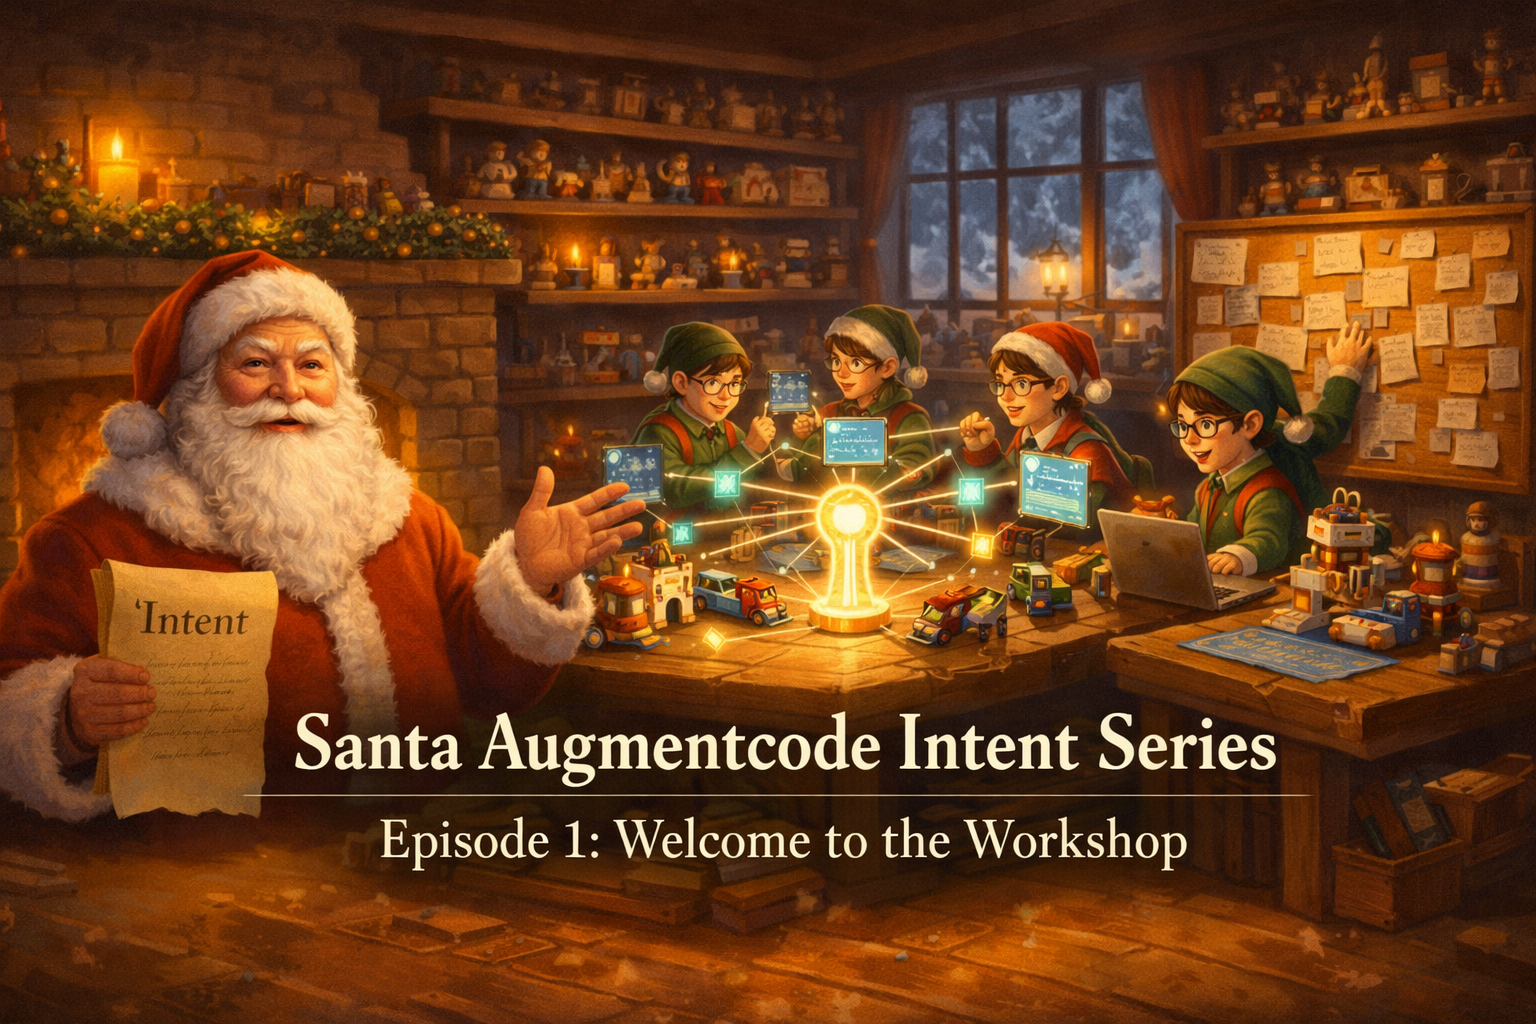
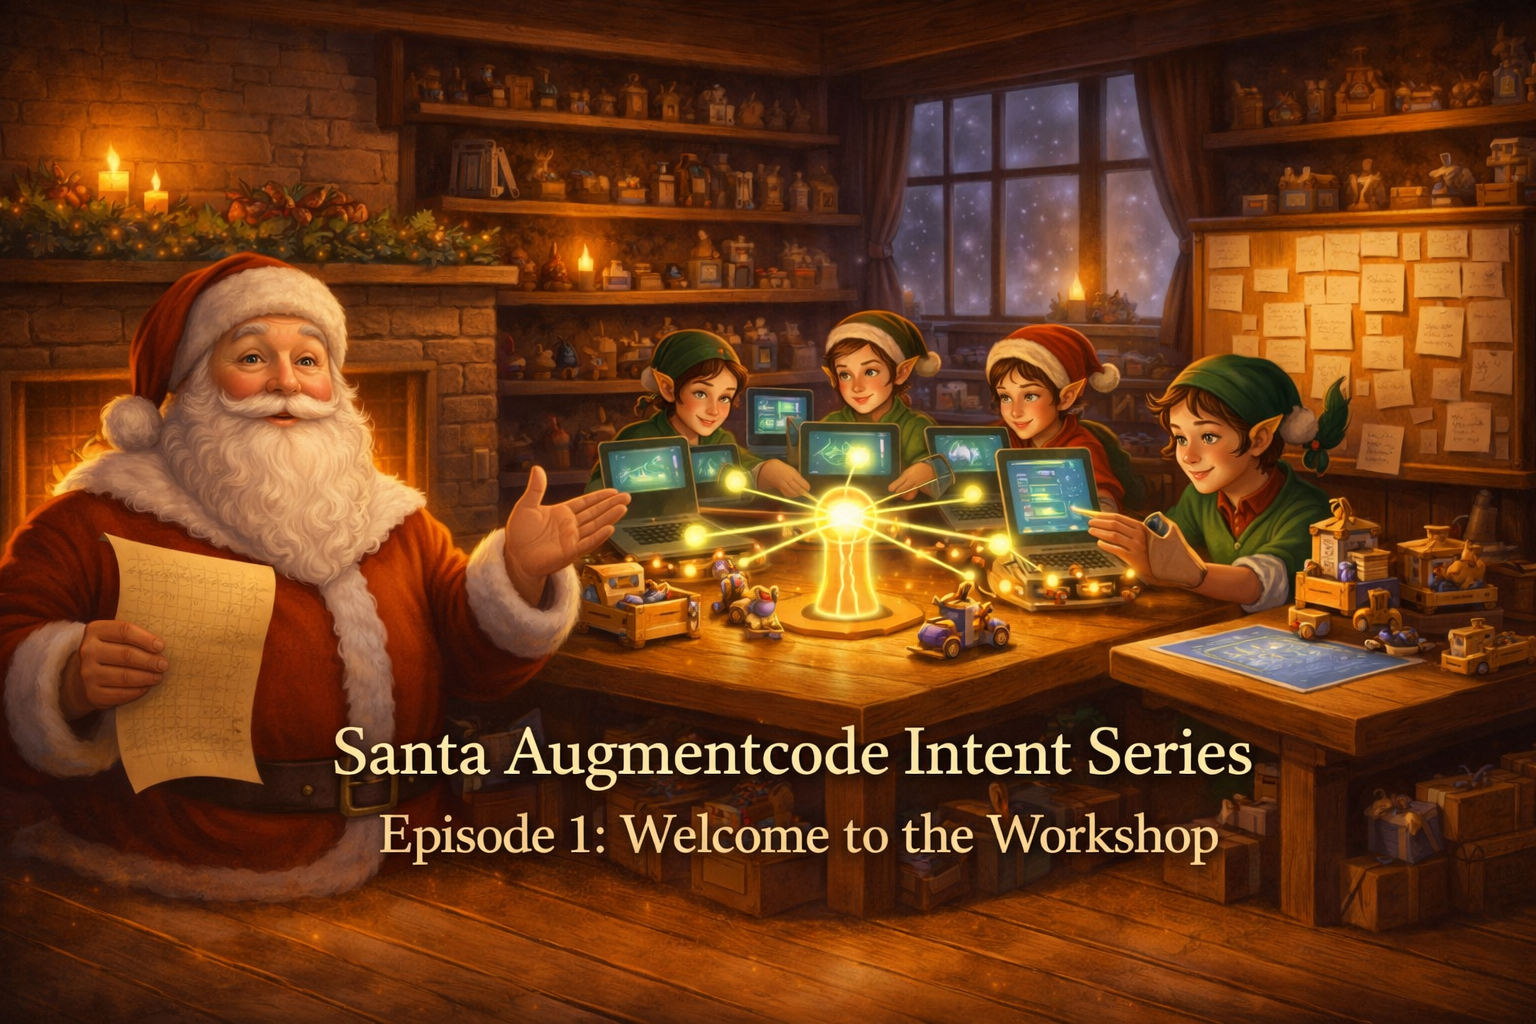
refactor: simplify title rendering to always embed text in image
Agent-Id: agent-28d1ddba-3a25-4451-b7cf-4dbb82e45a81

diff --git a/scripts/prompt-cli.py b/scripts/prompt-cli.py
@@ -291,72 +291,49 @@ def build_title_safety_block(series_name, episode_number, title, config):
     lr = config["image_title_safe_left_right_percent"]
     top = config["image_title_safe_top_percent"]
     bottom = max(config["image_title_safe_bottom_percent"], 40)
-    lower_text_boundary = 100 - bottom
-    safe_band = max(1, 100 - top - bottom)
-    title_center = int(top + safe_band * 0.50)
 
     return (
-        "DEV.to title safety requirements:\n"
-        "- This image will be used as a DEV.to article header/banner.\n"
-        "- DEV.to often crops the top/bottom edges of cover images.\n"
-        "- Keep all text fully readable inside a conservative safe area.\n"
-        "- Do not place important text near the extreme edges.\n"
+        "Typography handling:\n"
+        "- Render the final banner typography inside the image itself.\n"
+        "- The image is not complete unless the exact two-line title text "
+        "below is visibly rendered in the final image.\n"
+        "- Render exactly this readable two-line title block inside the image:\n"
+        f"  - {series_name}\n"
+        f"  - Episode {episode_number}: {title}\n"
         f"- Keep title typography at least {lr}% away from the left and right "
         "edges.\n"
         f"- Keep title typography at least {top}% away from the top edge.\n"
         f"- Keep title typography at least {bottom}% away from the bottom "
         "edge.\n"
-        "- Do NOT place any text in the top safe-margin area.\n"
-        f"- Treat the bottom {bottom}% of the image as a NO-TEXT zone too.\n"
-        "- Place the entire title block in the visual middle band of the "
-        "image, never as a footer or lower-third caption.\n"
-        "- Keep the entire two-line title block fully above the bottom "
-        "no-text zone.\n"
-        "- Keep the subtitle clearly below the main title with tight grouping so "
-        "both lines read as one compact title block.\n"
-        "- Render the subtitle smaller than the main title, roughly 45-60% of "
-        "the title size.\n"
-        "- Use slightly smaller typography rather than oversized typography "
-        "if needed.\n"
-        "- If the full title block does not fit comfortably, reduce font size "
-        "or move the text upward; never solve it by pushing the subtitle lower.\n"
-        "- Never place the title block in the lower third of the image.\n"
-        "- Do NOT place text on the floor area, bottom vignette, lower border, "
-        "or inside a footer strip, ribbon, or plaque.\n"
-        "- Do NOT add a decorative divider line under the title if it extends "
-        "the text treatment downward.\n"
-        "- Leave visible empty space below the subtitle; no part of any letter, "
-        "including descenders like g, j, p, q, and y, may approach the bottom "
-        "edge.\n"
-        "- Do not let any letter, banner, or ornament touch the image edge.\n"
-        "- The full title and subtitle must be completely visible.\n\n"
-        "Placement target (important):\n"
-        f"- Treat the top {top}% of the image as a NO-TEXT zone.\n"
-        f"- Treat everything below roughly {lower_text_boundary}% image height "
-        "as a NO-TEXT zone.\n"
-        "- Keep the full title block between roughly the 42% and 60% height "
-        "lines of the image.\n"
-        "- Place the series title so its cap-height starts just below the top "
-        "no-text zone, not near the bottom of the safe band.\n"
-        f"- Aim for the title block center around ~{title_center}% of image "
-        "height.\n"
-        "- If unsure, place the title block slightly higher rather than lower.\n"
-        "- Place the subtitle below the series title (not above).\n\n"
+        "- Place the entire two-line title block exactly in the vertical middle "
+        "of the image so it remains visible in a wide DEV.to banner.\n"
+        "- Center the title block horizontally.\n"
+        "- Reserve a calm central horizontal lane for the title block; keep "
+        "faces, hands, bright focal props, monitors, sparks, and important "
+        "objects out of that middle lane.\n"
+        "- Make the text large, crisp, elegant, and fully legible.\n"
+        "- Use refined serif typography in warm ivory or parchment-white with a "
+        "subtle dark outline or shadow for contrast.\n"
+        "- Keep the title and subtitle tightly grouped as one centered block.\n"
+        "- Do not place the text near the top edge or bottom edge.\n"
+        "- Do not use the text as a footer, lower-third caption, sticky note, "
+        "sign, or screen content.\n"
+        "- The centered title block must be the only large readable text in the "
+        "image.\n"
+        "- If papers, sticky notes, screens, signs, or labels appear, any "
+        "writing on them must remain tiny and illegible decorative scribble only.\n"
+        "- Do not omit, paraphrase, restyle, or misspell the centered title "
+        "text.\n\n"
         "Final text acceptance check before finishing:\n"
         "- verify every letter in the title and subtitle is fully visible in the "
         "final 1000x420 banner\n"
-        "- verify there is obvious empty space below the subtitle\n"
-        f"- verify the lowest visible text pixel stays above roughly "
-        f"{lower_text_boundary}% image height\n"
-        "- verify no footer bar, divider line, ribbon, plaque, or caption strip "
-        "sits below the subtitle\n"
-        "- if any part of the text is clipped or too close to the bottom edge, "
-        "move the text upward and/or reduce font size\n\n"
-        "Exact text to include:\n"
-        "Top title:\n"
-        f"\"{series_name}\"\n\n"
-        "Subtitle:\n"
-        f"\"Episode {episode_number}: {title}\""
+        "- verify the exact two-line title block is clearly readable and centered "
+        "vertically in the final image\n"
+        "- verify the centered title block stays well away from the top and "
+        "bottom crop zones\n"
+        "- if any part of the text is clipped, off-center, or hard to read, "
+        "simplify the middle of the composition, move objects away from the "
+        "middle lane, and reduce font size slightly if needed"
     )
 
 
@@ -446,29 +423,20 @@ def build_image_prompt(data, episode, config):
     background = composition.get("background", "")
 
     props_text = ", ".join(episode.get("supporting_props", []))
-    use_text_overlay = is_enabled(config.get("image_text_overlay_enabled"))
-
-    if use_text_overlay:
-        title_guidance = build_post_overlay_text_block()
-        title_context = (
-            "All final banner typography will be added by the CLI after image "
-            "generation.\n"
-            "Do not render any title, subtitle, episode number, wordmark, or "
-            "footer caption in the artwork itself.\n"
-        )
-    else:
-        title_guidance = build_title_safety_block(
-            series_name,
-            episode["number"],
-            title,
-            config,
-        )
-        title_context = (
-            f"Series title for final banner:\n\"{series_name}\"\n\n"
-            f"Episode subtitle for final banner:\n"
-            f"\"Episode {episode['number']}: {title}\"\n\n"
-            "The final banner must read clearly when published on DEV.to.\n"
-        )
+    title_guidance = build_title_safety_block(
+        series_name,
+        episode["number"],
+        title,
+        config,
+    )
+    title_context = (
+        "Render the final banner typography inside the image itself.\n\n"
+        "The image is not complete unless the exact two-line title text below "
+        "is visibly rendered in the final image, centered horizontally and "
+        "centered vertically:\n\n"
+        f"{series_name}\n"
+        f"Episode {episode['number']}: {title}\n"
+    )
     character_safety = build_character_safety_block()
 
     repo_url = config.get("github_repository_url", "")
@@ -543,7 +511,6 @@ Style requirements:
 Avoid:
 - visual clutter
 - unreadable text
-- footer-style lower-third title treatments
 - cramped composition
 - cropped or partially hidden faces
 - heads, hats, or hair touching the top edge
@@ -556,7 +523,7 @@ Avoid:
 - low-detail background
 - accidental portrait orientation
 - generated footer bars or lower-third title treatments
-- readable generated typography in the artwork
+- missing, unreadable, misspelled, or off-center title text
 
 Final acceptance check before finishing:
 - verify every main face, head, beard, hair, and hat is fully visible in the
@@ -1519,18 +1486,11 @@ def generate_episode_image(data, episode):
 
     prompt = build_image_prompt(data, episode, config)
     out_path = get_episode_image_path(series, episode, config)
-    overlay_text = None
-
-    if is_enabled(config.get("image_text_overlay_enabled")):
-        overlay_text = {
-            "title": series.get("name", ""),
-            "subtitle": f"Episode {episode['number']}: {episode_image_title(episode)}",
-        }
 
     prompt_path = out_path.with_suffix(".prompt.txt")
     prompt_path.write_text(prompt + "\n", encoding="utf-8")
 
-    generate_image_file(prompt, config, out_path, overlay_text=overlay_text)
+    generate_image_file(prompt, config, out_path)
 
     print(f"Generated image {out_path}")
     print(f"Saved prompt {prompt_path}")
